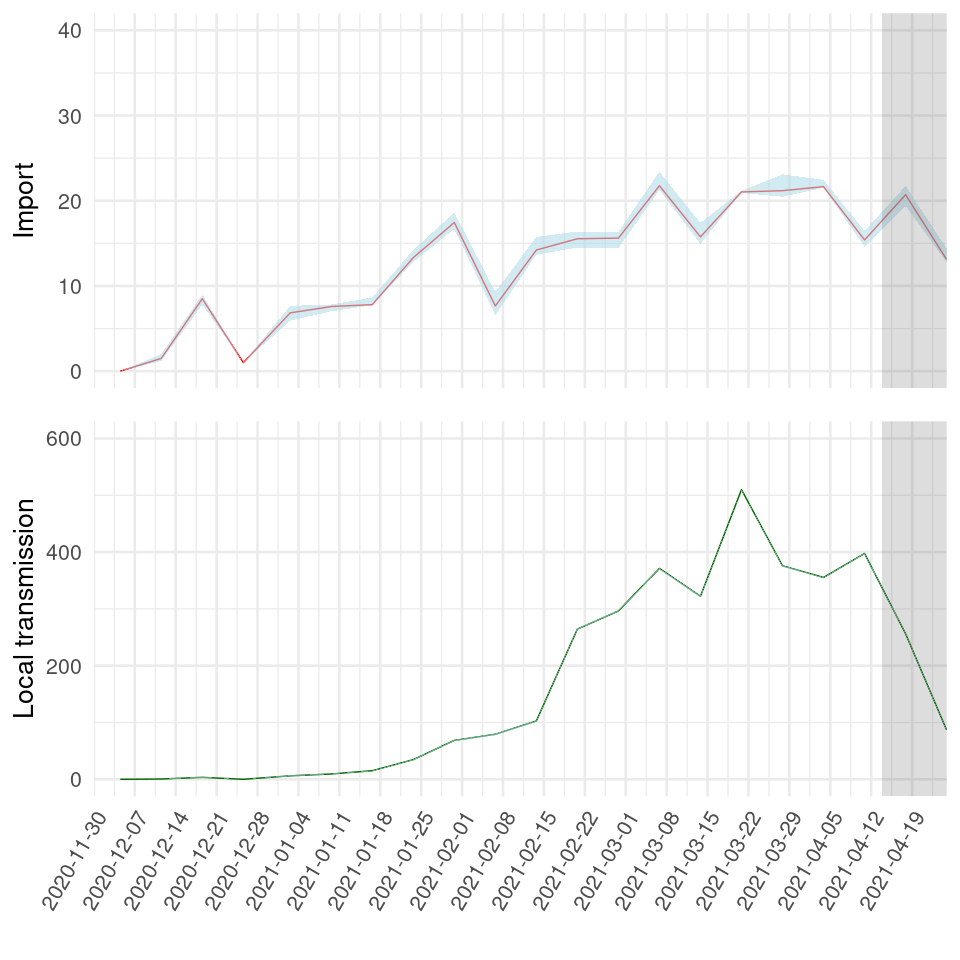
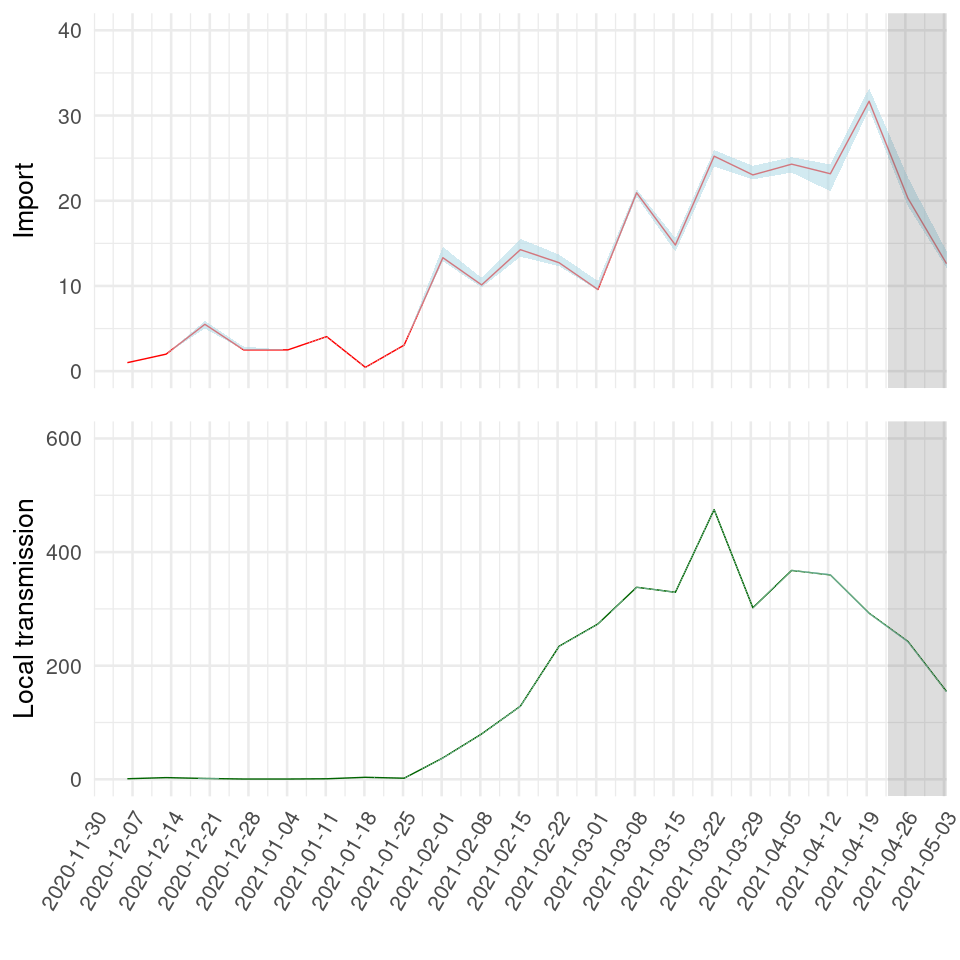
Updated with new data
NextStrain build from 2021-05-31 added

diff --git a/UK_results.md b/UK_results.md
@@ -1,6 +1,6 @@
-Results - B.1.1.7, “UK variant”
+Results - B.1.1.7, “Alpha variant”
 ================
-25/05/2021
+31/05/2021
 
 Phylogeographic mapping
 
@@ -29,9 +29,9 @@ lineage and TMRCA denotes the age of the lineage.
 
 |                    |      2.5% |       50% |     97.5% |
 |:-------------------|----------:|----------:|----------:|
-| Import             |  273.0000 |  279.5000 |  285.1000 |
-| Local transmission | 3609.9000 | 3615.5000 | 3622.0000 |
-| Import / Total     |    0.0701 |    0.0718 |    0.0732 |
+| Import             |  282.0000 |  285.5000 |  289.0000 |
+| Local transmission | 3696.0000 | 3699.5000 | 3703.0000 |
+| Import / Total     |    0.0708 |    0.0716 |    0.0725 |
 
 Next, we estimate the fraction of introductions relative to local
 transmission over time. In these and subsequent analyses it is important
